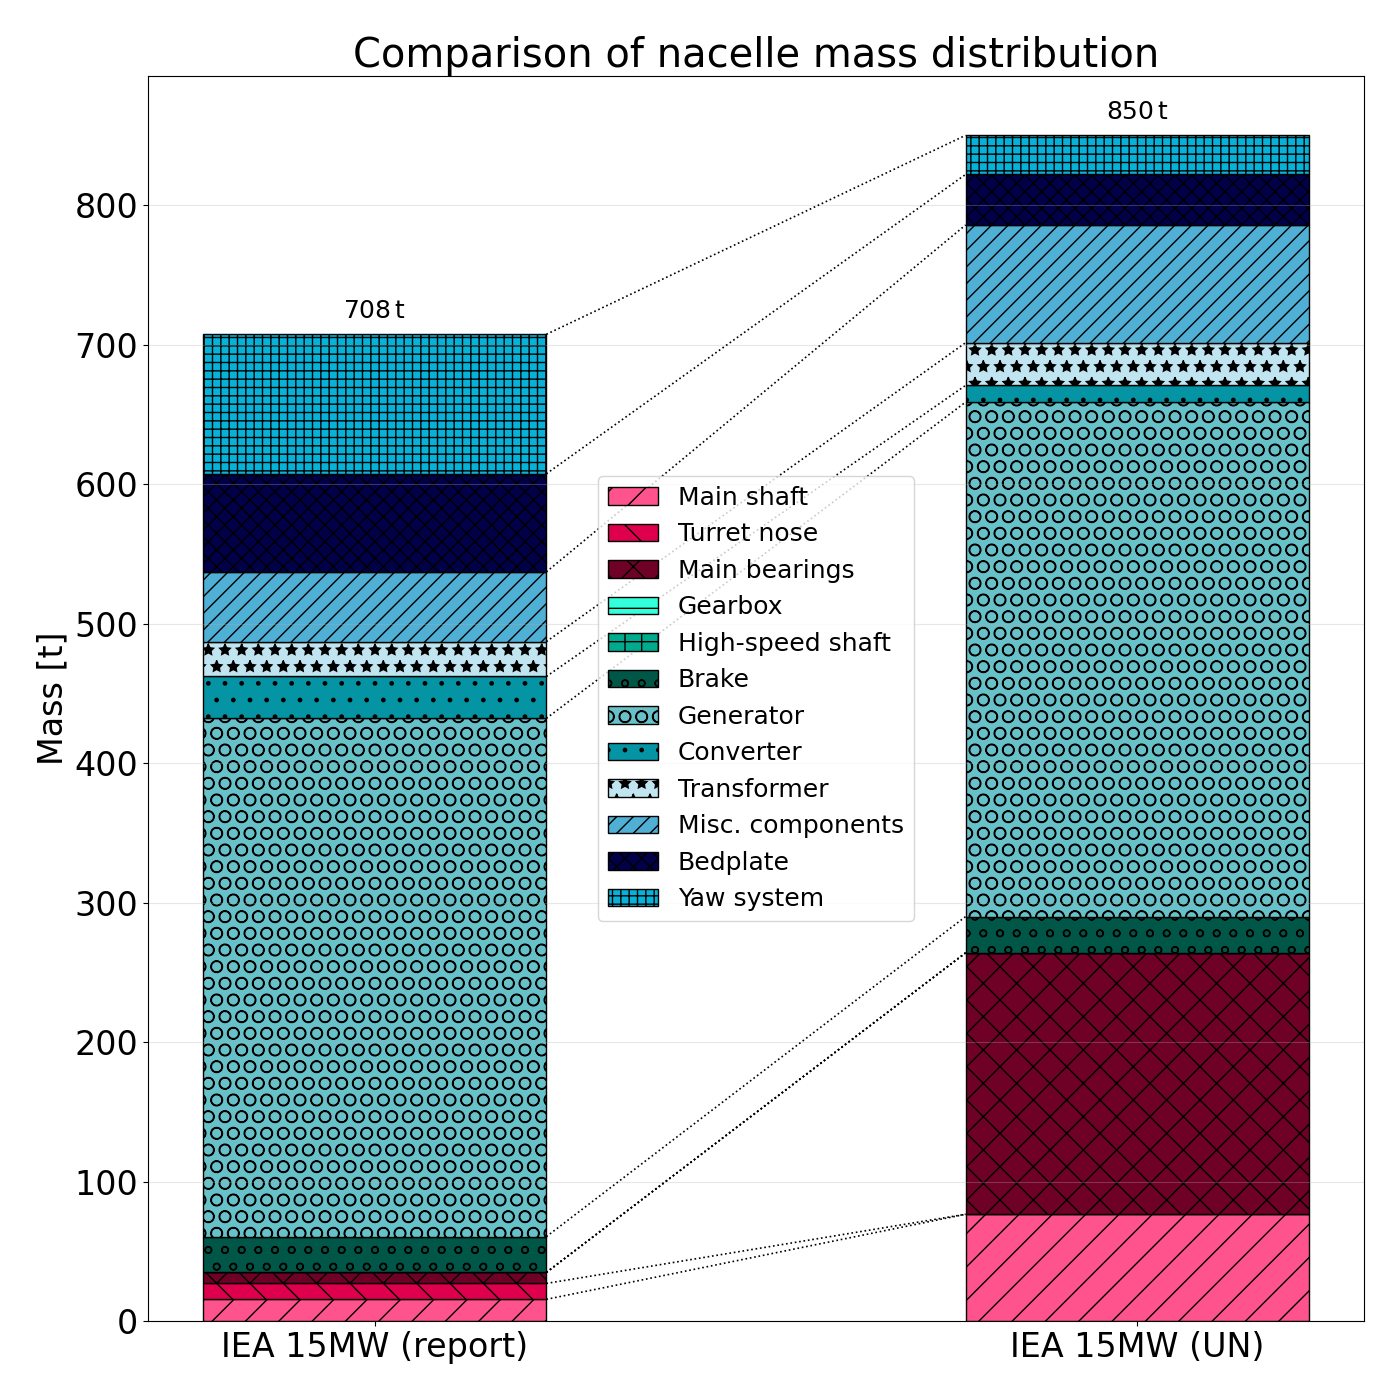
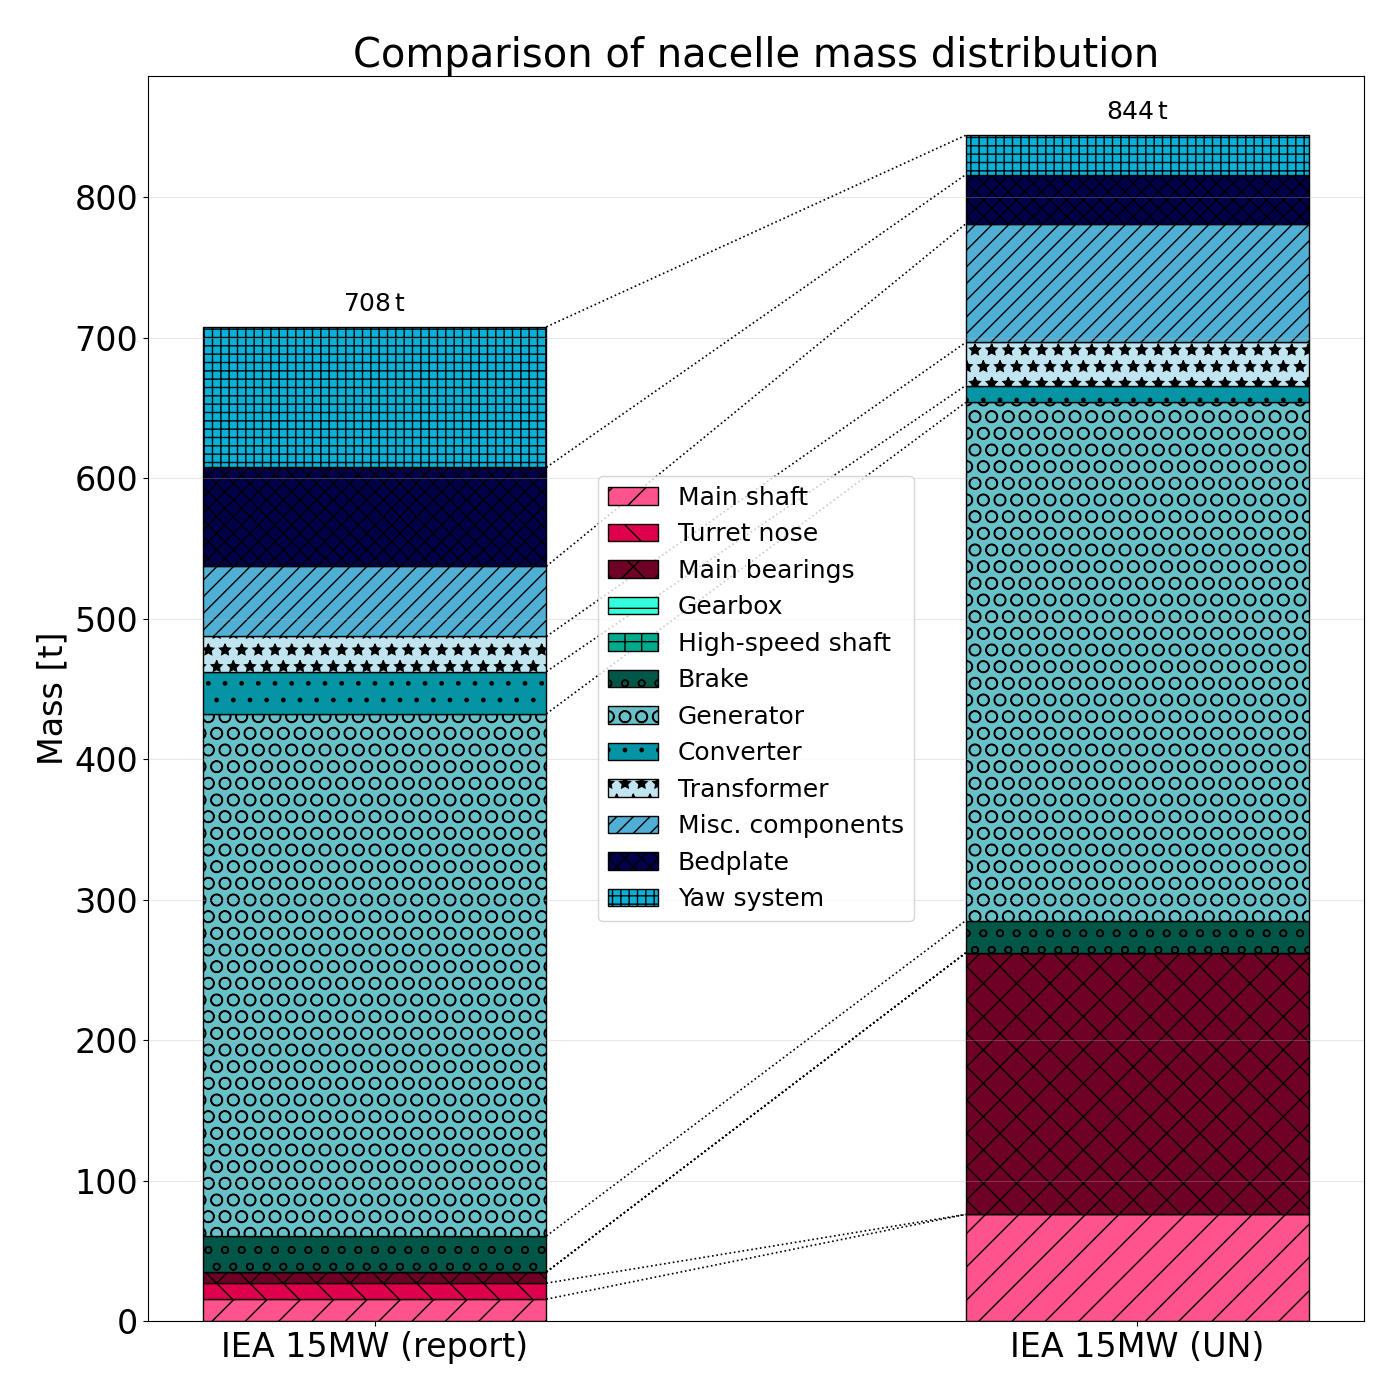
for consistent results: 1.base case csv read for wt vals, 2.model opts def using utilsDT func

diff --git a/examples/06_drivetrain/00_base_iea15mw/base_iea15_direct_drivetain.py b/examples/06_drivetrain/00_base_iea15mw/base_iea15_direct_drivetain.py
@@ -19,8 +19,9 @@ import numpy as np
 import openmdao.api as om
 import time
 import matplotlib.pyplot as plt
+import pandas as pd
 
-from wisdem.commonse.fileIO import save_data, load_data
+from wisdem.commonse.fileIO import save_data, load_data, var_df2dict
 from wisdem.drivetrainse.drivetrain import DrivetrainSE, DrivetrainSE_M4W
 from wisdem.commonse.utilities import load_all_mat_to_dict, pdf_norm_int_using_cdf
 import Drive4Wind.utilities.utilities_drivetrain as utilsDT
@@ -55,6 +56,14 @@ script_dir = os.path.dirname(os.path.abspath(__file__))
 results_path = os.path.join(script_dir, results_dir)
 os.makedirs(results_path, exist_ok=True)
 
+# base case turbine csv
+basecaseCSVpath = os.path.join(
+    os.path.dirname(os.path.dirname(script_dir)),
+    "02_reference_turbines","M4W_production_runs","outputs",
+    "basecase_NOoptim.csv")
+basecaseDF = pd.read_csv(basecaseCSVpath)
+basecaseDict = var_df2dict(basecaseDF)
+
 loc_save_data = os.path.join(results_path, "m4w_base_case_DT"+suffix)
 if flag_save_RNAprops4tower:
     loc_save_RNAprops4tower = os.path.join(
@@ -66,57 +75,19 @@ if flag_save_RNAprops4tower:
 if part_loads: # define paths
     S_all, keys_all = load_all_mat_to_dict(loc_all_loads_mat_file)
 
-# Wind speed and probabilies: auto parse loads dict
-ws = S_all["mean_wind_speed"][0,:].tolist()
-pdf_ws = pdf_norm_int_using_cdf(ws).tolist()
-# ----
 #%%
 # Set input options (modeling options dictionary)
-opts = {}
+# TODO: probabs check with wind site
+from Drive4Wind.utilities.utilities_drivetrain import define_modeling_options_dict_for_drivetrainSE as defModelOpts
+opts = defModelOpts(loc_all_loads_mat_file)
 
-opts["WISDEM"] = {}
-opts["WISDEM"]["n_dlc"] = 1
-opts["WISDEM"]["DriveSE"] = {}
-# NOTE "hub": 'Hub_System' component are NOT included in the 'DrivetrainSE_M4W' component 
-opts["WISDEM"]["DriveSE"]["hub"] = {}
-opts["WISDEM"]["DriveSE"]["hub"]["hub_gamma"] = 2.0
-opts["WISDEM"]["DriveSE"]["hub"]["spinner_gamma"] = 1.5
-
+# base case DD specific
 direct = opts["WISDEM"]["DriveSE"]["direct"] = True
-opts["WISDEM"]["DriveSE"]["gearbox_torque_density"] = 0.0 # False =(GB  optim, in-capabale)
+opts["WISDEM"]["RotorSE"]["n_pc"] = 20
 
-opts["WISDEM"]["DriveSE"]["gamma_f"] = 1.35 #IEC-1, 7.6.2.2a, pg.57
-opts["WISDEM"]["DriveSE"]["gamma_m"] = 1.3  #IEC-1, 7.6.2.4, pg.59
-opts["WISDEM"]["DriveSE"]["gamma_n"] = 1.0  #IEC-1, 7.6.1.3, pg.55
-opts["WISDEM"]["DriveSE"]["own_hub_loads"] = True
-# used as: gamma = gamma_f * gamma_m * gamma_n (within TODO)
-
-opts["WISDEM"]["RotorSE"] = {}
-opts["WISDEM"]["RotorSE"]["n_pc"] = 20 #cf. RPM_Input in drive_components.py
-            # `n_pc`: Number of wind speeds to compute the power curve
-opts["materials"] = {}
-opts["materials"]["n_mat"] = 4
-
-opts["flags"] = {}
-dogen = opts["flags"]["generator"] = False
-dohub = opts["flags"]["hub"] = True #(v)
-doMBfls = opts["flags"]["mb_fls"] = True
-
-opts["OpenFAST"] = {}
-opts["OpenFAST"]["simulation"] = {}
-opts["OpenFAST"]["simulation"]["DT"] = 0.05
-# dir(ectory) where MS loads are stored .csv (?)
-if part_loads:
-    opts["OpenFAST"]["openfast_dir"] = loc_all_loads_mat_file
-else:
-    ValueError('Full loads not defined in openfast_dir<-OpenFAST<-modelling_options. Please define it first. jazakumAllahu khayr.')
-
-opts["DLC_driver"] = {}
-opts["DLC_driver"]["DLCs"] = [{}]
-opts["DLC_driver"]["DLCs"][0]["DLC"] = "1.2"
-opts["DLC_driver"]["DLCs"][0]["wind_speed"] = ws
-opts["DLC_driver"]["DLCs"][0]["probabilities"] = pdf_ws
-# ---
+doMBfls = opts["flags"]["mb_fls"]
+dohub = opts["flags"]["hub"] = True
+dogen = opts["flags"]["generator"]
 
 #%%
 # Initialize OpenMDAO problem
@@ -186,17 +157,19 @@ if load_from_saved_data:
     prob = load_data( loc_save_data+".csv", prob )
 #%%
 # Set high-level input values (that desc the turbine)
-prob.set_val("machine_rating", 15.0, units="MW")
-prob["upwind"] = True
-n_blades = 3
-prob["rotor_diameter"] = 241.35064632 # latest: 241.35064632; old: 240.0
-prob["D_top"] = 6.5 #tower top diameter
-prob["minimum_rpm"] = 5.0
-prob["rated_rpm"] = 7.56
-prob["rated_torque"] = 21.3 * 1e6 # 19947034.78543754
-prob["overhang"] = 12.0313 # 11.35
-prob["drive_height"] = 5.614
-prob["tilt"] = 6.0
+machine_rating = float(basecaseDict["drivese.machine_rating"])
+prob.set_val("machine_rating",machine_rating,"kW")
+prob["upwind"] = bool(basecaseDict["drivese.upwind"])
+D_rotor = prob["rotor_diameter"] = float(basecaseDict["drivese.rotor_diameter"])
+prob["D_top"] = float(basecaseDict["drivese.D_top"]) #tower top diameter
+prob["minimum_rpm"] = float(basecaseDict["drivese.minimum_rpm"])
+rated_rpm = prob["rated_rpm"] = float(basecaseDict["drivese.rated_rpm"]) #7.56
+prob["rated_torque"] = float(basecaseDict["drivese.rated_torque"]) # 21.3 * 1e6 # Nm
+if doMBfls:
+    prob["lifetime"] = float(basecaseDict["drivese.lifetime"]) #design life in years ('lifetime' from WEIS, WindIO)
+prob["overhang"] = float(basecaseDict["drivese.overhang"]) #ref.2
+prob["drive_height"] = float(basecaseDict["drivese.drive_height"])
+prob["tilt"] = float(basecaseDict["drivese.tilt"]) #[deg] ref.3
 
 # Loading from rotor
 # prob["F_aero_hub"] = np.array([2517580.0, -27669.0, 3204.0]).reshape((3, 1))
@@ -207,26 +180,32 @@ prob['M_aero_hub'] = np.array( [S_all['Mx_max'], S_all['My_max'], S_all['Mz_max'
 
 # Blade properties and hub design options
 # --- NOTE: copied from M4W_base_case_driver's NOoptim csv
-prob["hub_diameter"] = 7.94
-prob["blades_cm"] = 2.1853055315151138
-blade_mass = 68233.0936092383
-prob["blades_mass"] = n_blades * blade_mass
-prob["blades_I"] = np.r_[348506332.76071006, 174253166.38035503, 174253166.38035503, 0.0, 0.0, 0.0]
-prob["pitch_system.BRFM"] = 117585772.28432259
-prob["pitch_system_scaling_factor"] = 0.75
-prob["blade_root_diameter"] = 5.20
-prob["flange_t2shell_t"] = 6.0
-prob["flange_OD2hub_D"] = 0.6
-prob["flange_ID2flange_OD"] = 0.8 # ? ----+ down: TODO
-prob["hub_in2out_circ"] = 1.2
-prob["hub_stress_concentration"] = 3.0
-prob["n_front_brackets"] = 5
-prob["n_rear_brackets"] = 5
-prob["clearance_hub_spinner"] = 0.5
-prob["spin_hole_incr"] = 1.2
-prob["spinner_gust_ws"] = 70.0
-# ----
+prob["hub_diameter"] = float(basecaseDict["drivese.hub_diameter"])
+n_blades = prob["n_blades"] = float(basecaseDict["drivese.n_blades"])
+blade_mass = prob["blade_mass"] = float(basecaseDict["drivese.blade_mass"])
+prob["blades_mass"] = float(basecaseDict["drivese.blades_mass"]) #n_blades * blade_mass
+prob["blades_cm"] = float(basecaseDict["drivese.blades_cm"])
+prob["blades_I"] = eval(basecaseDict["drivese.blades_I"])
 
+lstHub = ["flange_t2shell_t",
+          "flange_OD2hub_D",
+          "flange_ID2flange_OD",
+          "hub_in2out_circ",
+          "hub_stress_concentration",
+          "n_front_brackets",
+          "n_rear_brackets",
+          "clearance_hub_spinner",
+          "spin_hole_incr",
+          "blade_root_diameter",
+
+          "pitch_system.BRFM",
+          "pitch_system_scaling_factor",
+
+          "spinner_gust_ws"]
+for name in lstHub:
+    prob[name] = float(basecaseDict["drivese."+name])
+# ----
+#%%
 # Drivetrain configuration and sizing inputs
 prob["bear1.bearing_type"] = "CARB" # iea15 report: TRB2; latest wisdem: CARB
 prob["bear2.bearing_type"] = "SRB"  
@@ -247,11 +226,11 @@ prob["lss_wall_thickness"] = 0.1 * myones #* 2
 prob["nose_diameter"] = 2.2 * myones #* 2
 prob["nose_wall_thickness"] = 0.1 * myones #* 2
 
-prob["L_generator"] = 2.15  # core length
-prob["generator_mass_user"] = 368839.0
-prob["generator_radius_user"] = 5.309 # air gap radius
+prob["L_generator"] = float(basecaseDict["drivese.L_generator"])  # core length
+prob["generator_mass_user"] = float(basecaseDict["drivese.generator_mass"])
+prob["generator_radius_user"] = float(basecaseDict["drivese.R_generator"]) # air gap radius
 
-prob["access_diameter"] = 2.0
+prob["access_diameter"] = float(basecaseDict["drivese.access_diameter"])
 
 prob["bedplate_wall_thickness"] = 0.05 * np.ones(4) # same mass (as report): use 0.0925
 
